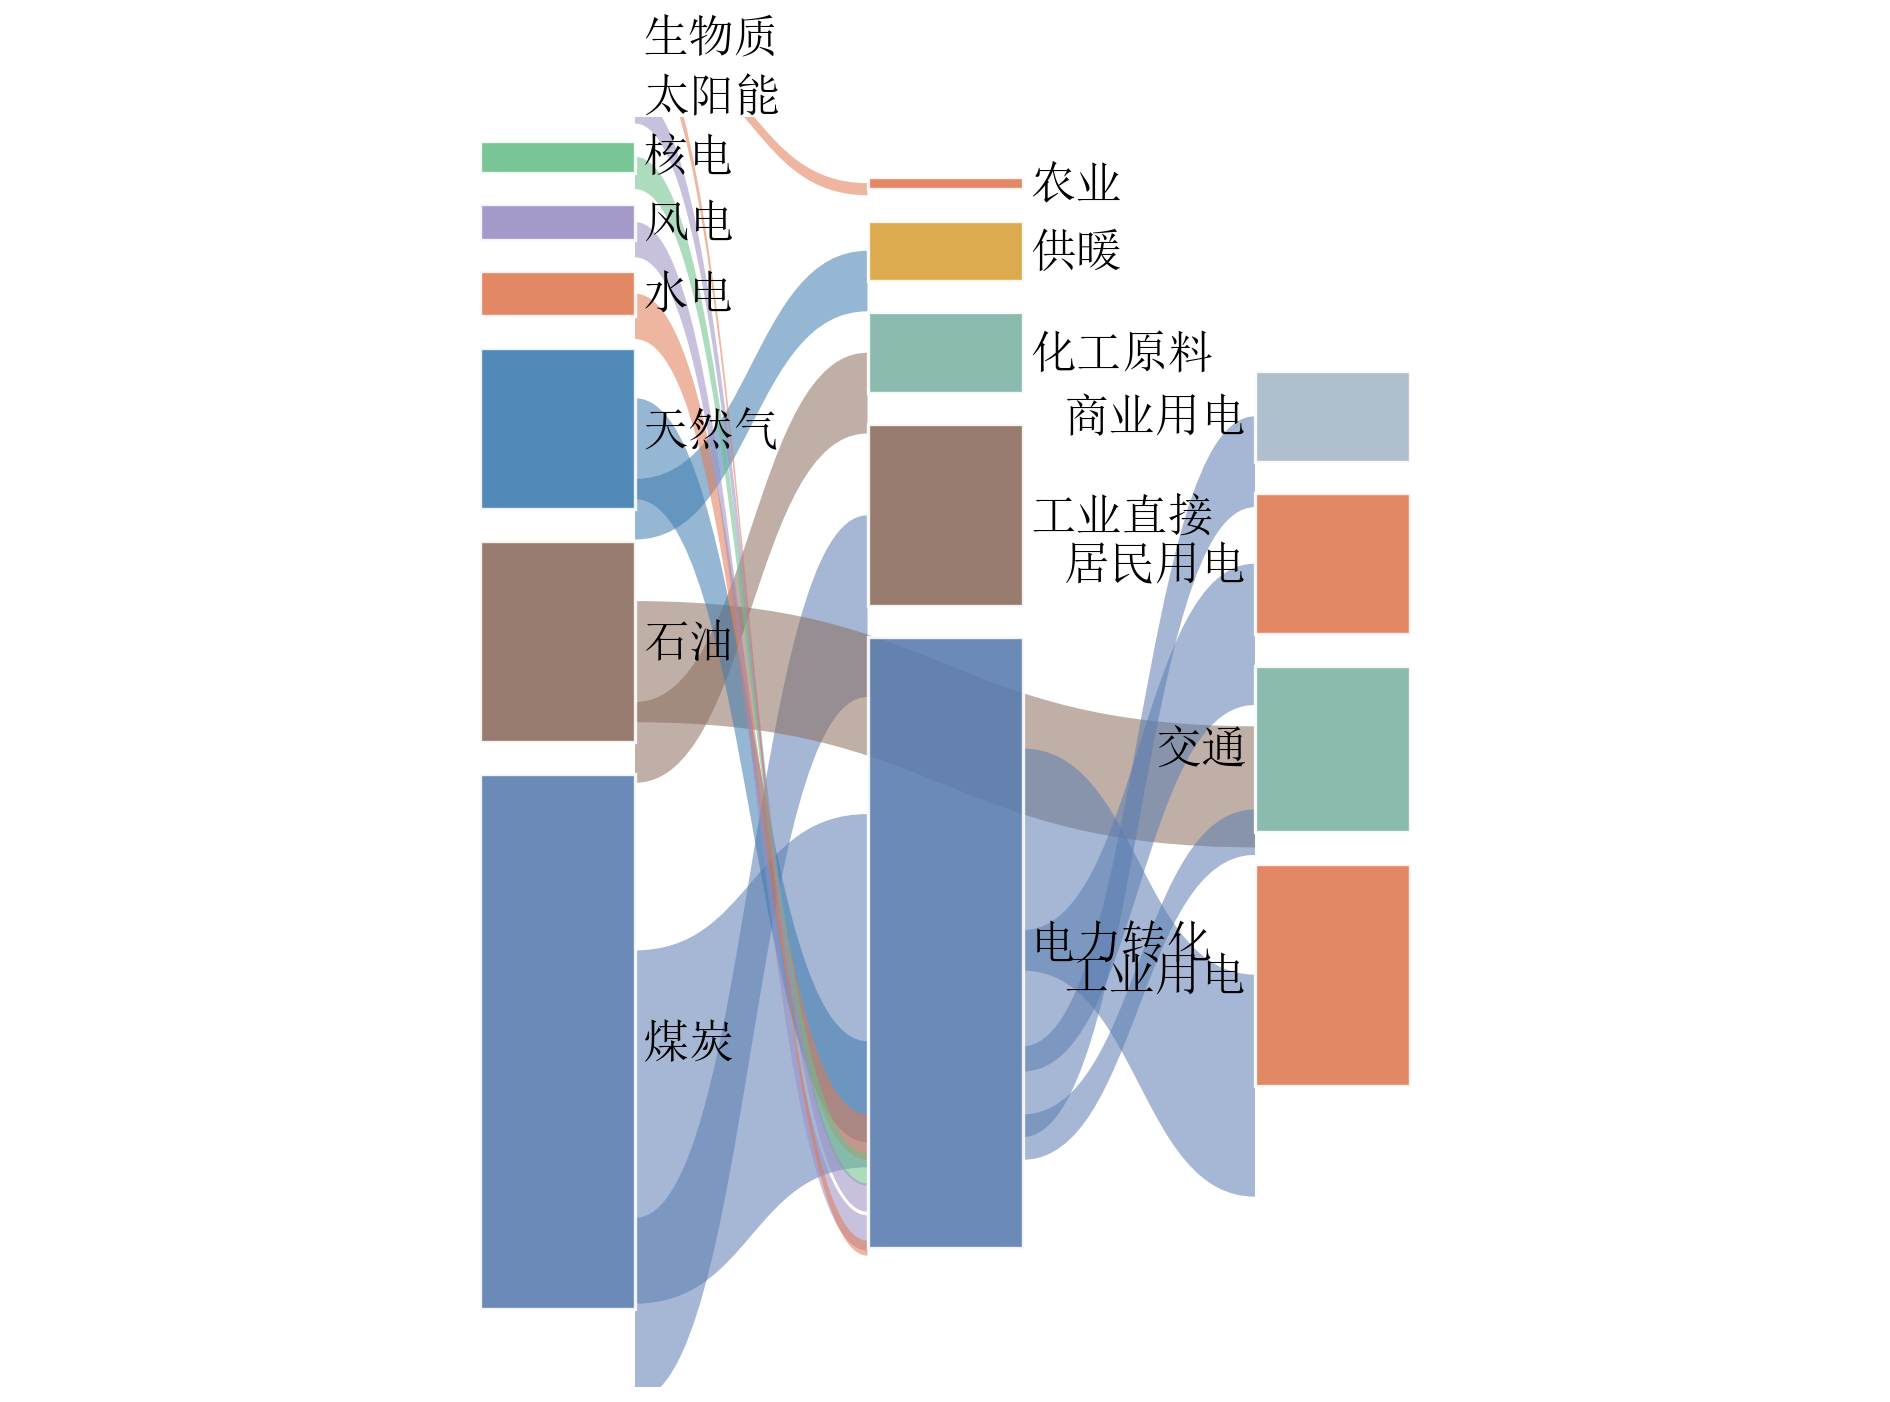
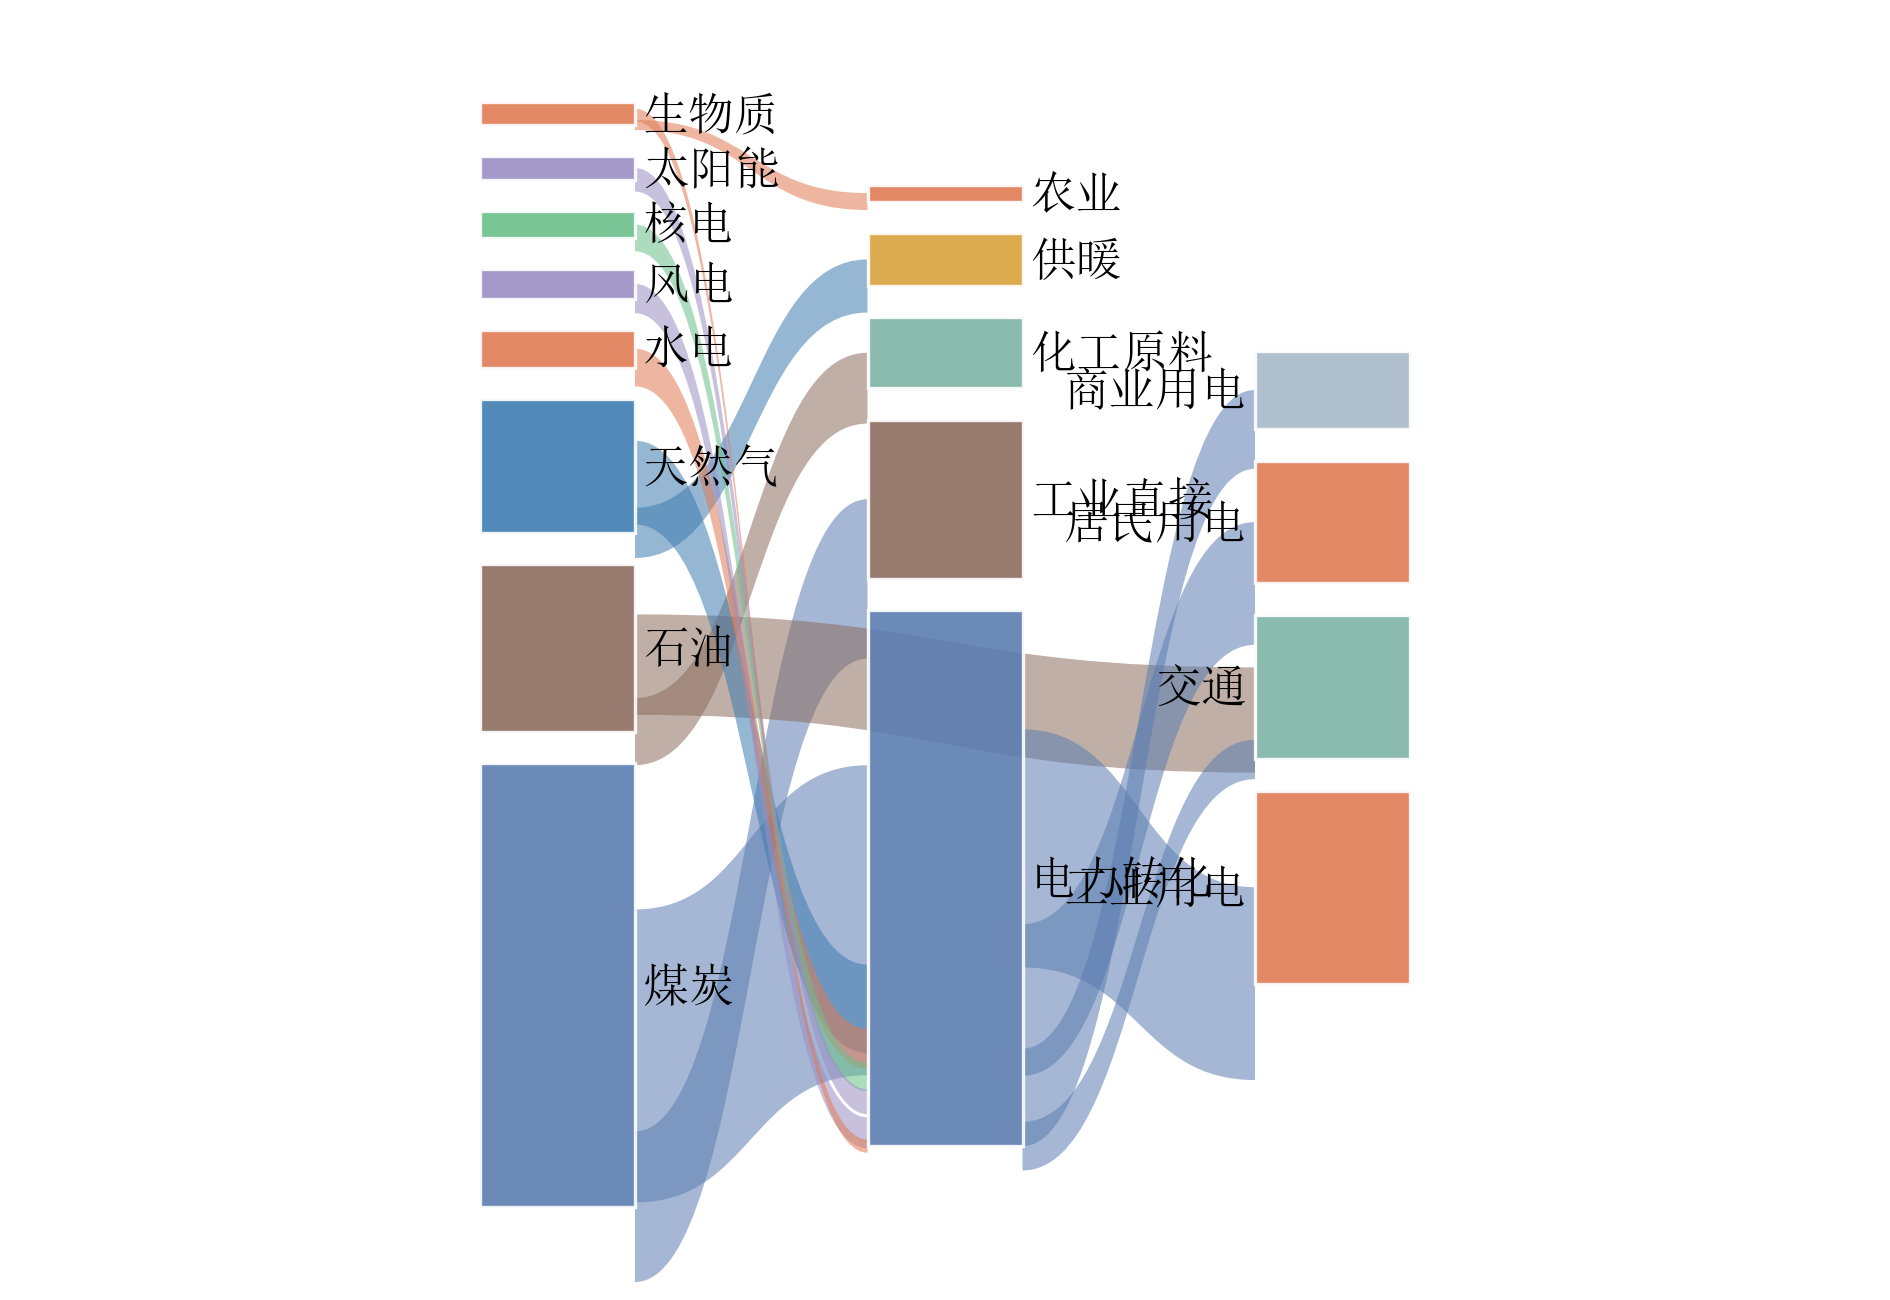
fix: 桑基图极小节点可见性 + docstring rst 误解析 + showcase 34/35/37/38 模板化
- plot_sankey 新增 min_node_height（默认 0.012），极小节点不再被间隙吞掉
- 9 处 docstring **var: 参数行反引号包裹，Sphinx 139 警告 → 0
- showcase 34/35/37/38 改用 figure_panels(template=...) 一键模板
- skill recipes.md 追加 Meta 分析/UpSet/三联画/色盲安全配方

diff --git a/sciplot/_plots/flow.py b/sciplot/_plots/flow.py
@@ -29,6 +29,7 @@ def plot_sankey(
     node_alpha: float = 0.9,
     flow_alpha: float = 0.55,
     min_flow: float = 0.0,
+    min_node_height: float = 0.012,
     venue: Optional[str] = None,
     palette: Optional[str] = None,
     lang: Optional[str] = None,
@@ -49,6 +50,8 @@ def plot_sankey(
         node_alpha : 节点不透明度
         flow_alpha : 流量带不透明度
         min_flow   : 小于该值的流被过滤（避免视觉噪音）
+        min_node_height: 节点最小可见高度（归一化，默认 0.012）。
+                       极小流量节点提升到此高度，避免条高被间隙吞掉只剩标签
 
     示例:
         >>> fig, ax = sp.plot_sankey(
@@ -156,14 +159,32 @@ def plot_sankey(
         layer_heights[lv] = h
         max_layer_h = max(max_layer_h, h)
 
+    # 节点高度：极小节点提升到 min_node_height（避免条高不可见）。
+    # 提升后各层高度相应扩张，保证 ∑节点高 + 间隙 ≈ 层高。
+    min_node_h = float(min_node_height)
+    node_h_eff: Dict[Any, float] = {}
+    for n in node_list:
+        raw_h = node_value[n] / total_value
+        node_h_eff[n] = max(raw_h, min_node_h)
+
     x_stride = node_width * 2.5
     node_pos: Dict[Any, Tuple[float, float]] = {}
+    node_h_display: Dict[Any, float] = {}  # 实际绘制高度（含最小提升与收缩）
     for lv, nodes in layers.items():
         x = lv * x_stride
-        y_cursor = (max_layer_h - layer_heights[lv]) / 2
+        # 层内节点高之和（含最小提升）+ 间隙
+        raw_layer_h = sum(node_value[n] for n in nodes) / total_value
+        eff_layer_h = sum(node_h_eff[n] for n in nodes)
+        n_gaps = len(nodes) - 1
+        # 若提升导致溢出，按比例收缩（保持相对大小）；
+        # 但保证提升后的最小节点不被收缩回阈值以下
+        avail = max(raw_layer_h, eff_layer_h + n_gaps * 0.02)
+        scale = raw_layer_h / avail if avail > 0 else 1.0
+        y_cursor = (max_layer_h - raw_layer_h) / 2
         for n in nodes:
-            h = node_value[n] / total_value
+            h = max(node_h_eff[n] * scale, min_node_h * 0.9)
             node_pos[n] = (x, y_cursor)
+            node_h_display[n] = h
             y_cursor += h + 0.02
 
     # 流出/流入偏移游标（用于流量带锚点）
@@ -178,8 +199,8 @@ def plot_sankey(
     for s, t, v in zip(src_arr, tgt_arr, val_arr):
         x_s, y_s = node_pos[s]
         x_t, y_t = node_pos[t]
-        h_s = node_value[s] / total_value
-        h_t = node_value[t] / total_value
+        h_s = node_h_display[s]
+        h_t = node_h_display[t]
         # 节点内流量占比（避免流入≠流出时流带溢出节点条）
         out_total = max(outflow[s], 1e-12)
         in_total = max(inflow[t], 1e-12)
@@ -216,7 +237,7 @@ def plot_sankey(
     # ── 节点矩形 ──
     for n in node_list:
         x, y = node_pos[n]
-        h = node_value[n] / total_value
+        h = node_h_display[n]
         ax.add_patch(Rectangle(
             (x, y), node_width, h,
             facecolor=color_of[n], alpha=node_alpha,
@@ -227,7 +248,7 @@ def plot_sankey(
     fs = max(7, plt.rcParams.get("font.size", 9) - 1)
     for n in node_list:
         x, y = node_pos[n]
-        h = node_value[n] / total_value
+        h = node_h_display[n]
         if level[n] == max_level:
             ax.text(x - 0.005, y + h / 2, label_of[n],
                     ha="right", va="center", fontsize=fs, zorder=4)

diff --git a/showcase/38_composite_time_march.py b/showcase/38_composite_time_march.py
@@ -26,10 +26,9 @@ times = [1.0, 4.0, 12.0, 24.0]
 fields = [plume(t) for t in times]
 vmin, vmax = 0.0, float(np.max(fields[0]))
 
-# ── 布局：2×2 时间快照 ────────────────────────────────────────
+# ── 布局：2×2 时间快照（模板一键生成） ───────────────────────
 sp.setup_style("thesis", "ocean", lang="zh")
-fig, axes = plt.subplots(2, 2, figsize=(5.6, 5.0),
-                         gridspec_kw=dict(hspace=0.32, wspace=0.28))
+fig, axes = sp.figure_panels(template="time_march", venue="thesis")
 axes = np.atleast_2d(axes)
 
 cmap = plt.get_cmap("YlOrRd")
@@ -51,10 +50,5 @@ cbar = fig.colorbar(im, ax=axes, fraction=0.030, pad=0.06, aspect=40)
 cbar.set_label("浓度 (归一化)", fontsize=8)
 cbar.ax.tick_params(labelsize=7)
 
-# ── 面板标签 ─────────────────────────────────────────────────
-for ax, lbl in zip(axes.flat, ["a", "b", "c", "d"]):
-    ax.text(-0.14, 1.08, f"({lbl})", transform=ax.transAxes,
-            fontweight="bold", fontsize=11)
-
-# ── 保存 ──────────────────────────────────────────────────────
+# ── 保存（面板标签已由模板自动添加 8pt） ──────────────────────
 sp.save(fig, "showcase/38_composite_time_march", formats=("png",), dpi=300)

diff --git a/showcase/37_composite_pipeline.py b/showcase/37_composite_pipeline.py
@@ -13,10 +13,10 @@ import sciplot as sp
 
 rng = np.random.default_rng(13)
 
-# ── 布局：1×5 流水线 ──────────────────────────────────────────
+# ── 布局：1×5 流水线（模板一键生成） ─────────────────────────
 sp.setup_style("thesis", "ocean", lang="zh")
-fig, axes = plt.subplots(1, 5, figsize=(9.5, 2.6),
-                         gridspec_kw=dict(wspace=0.62))
+fig, axes = sp.figure_panels(template="pipeline", venue="thesis")
+axes = np.atleast_1d(axes)
 for ax in axes:
     ax.tick_params(direction="in")
 
@@ -66,10 +66,5 @@ for i in range(4):
     )
     fig.add_artist(cp)
 
-# ── 面板标签 ─────────────────────────────────────────────────
-for ax, lbl in zip(axes, ["a", "b", "c", "d", "e"]):
-    ax.text(-0.14, 1.10, f"({lbl})", transform=ax.transAxes,
-            fontweight="bold", fontsize=11)
-
-# ── 保存 ──────────────────────────────────────────────────────
+# ── 保存（面板标签已由模板自动添加 8pt） ──────────────────────
 sp.save(fig, "showcase/37_composite_pipeline", formats=("png",), dpi=300)

diff --git a/tests/unit/test_sankey.py b/tests/unit/test_sankey.py
@@ -117,3 +117,30 @@ def test_sankey_self_loop_no_hang(cleanup_figures):
     assert result.fig is not None
     result2 = sp.plot_sankey(["A"], ["A"], [10.0])
     assert result2.fig is not None
+
+
+def test_sankey_min_node_height(cleanup_figures):
+    """极小流量节点应提升到最小可见高度（不被间隙吞掉）。"""
+    from matplotlib.patches import Rectangle
+
+    src = ["A", "B", "C", "A", "B"]
+    tgt = ["X", "Y", "X", "Y", "X"]
+    val = [100.0, 1.0, 1.0, 60.0, 42.0]
+    result = sp.plot_sankey(src, tgt, val)
+    rects = [p for p in result.ax.patches if isinstance(p, Rectangle)]
+    assert len(rects) == 5
+    hs = sorted(r.get_height() for r in rects)
+    assert hs[0] >= 0.010, f"最小节点条高 {hs[0]:.4f} 不可见"
+
+
+def test_sankey_min_node_height_zero_disables(cleanup_figures):
+    """min_node_height=0 时不做最小高度提升（保持原始比例）。"""
+    from matplotlib.patches import Rectangle
+
+    src = ["A", "B"]
+    tgt = ["X", "Y"]
+    val = [100.0, 1.0]
+    result = sp.plot_sankey(src, tgt, val, min_node_height=0.0)
+    rects = [p for p in result.ax.patches if isinstance(p, Rectangle)]
+    hs = sorted(r.get_height() for r in rects)
+    assert hs[0] < 0.01  # 原始比例下小节点仍很小

diff --git a/sciplot/_core/context.py b/sciplot/_core/context.py
@@ -305,7 +305,7 @@ def ieee_context(
         palette: 配色方案，默认 "pastel"
         lang: 语言设置，"zh" 或 "en"
         theme: 主题模式，"light" 或 "dark"
-        **kwargs: 其他 matplotlib rcParams 参数
+        `**kwargs`: 其他 matplotlib rcParams 参数
 
     返回:
         StyleContext 上下文管理器
@@ -332,7 +332,7 @@ def nature_context(
         palette: 配色方案，默认 "pastel"
         lang: 语言设置，"zh" 或 "en"
         theme: 主题模式，"light" 或 "dark"
-        **kwargs: 其他 matplotlib rcParams 参数
+        `**kwargs`: 其他 matplotlib rcParams 参数
 
     返回:
         StyleContext 上下文管理器
@@ -357,7 +357,7 @@ def thesis_context(
         palette: 配色方案，默认 "pastel"
         lang: 语言设置，"zh" 或 "en"
         theme: 主题模式，"light" 或 "dark"
-        **kwargs: 其他 matplotlib rcParams 参数
+        `**kwargs`: 其他 matplotlib rcParams 参数
 
     返回:
         StyleContext 上下文管理器

diff --git a/showcase/34_composite_condition_matrix.py b/showcase/34_composite_condition_matrix.py
@@ -39,8 +39,8 @@ mean_colors = {
     ("药物 B", "对照"): "#3A628F", ("药物 B", "低剂量"): "#3A628F", ("药物 B", "高剂量"): "#3A628F",
 }
 
-# ── 布局：2×3 条件矩阵 ────────────────────────────────────────
-fig, axes = sp.figure_panels(2, 3, venue="thesis", sharey=True, hspace=0.35, wspace=0.28)
+# ── 布局：2×3 条件矩阵（模板一键生成） ───────────────────────
+fig, axes = sp.figure_panels(template="condition_matrix", venue="thesis")
 
 for ax, (i, j) in zip(axes.flat, [(r, c) for r in range(2) for c in range(3)]):
     drug = drugs[i]

diff --git a/showcase/35_composite_comparative.py b/showcase/35_composite_comparative.py
@@ -21,8 +21,8 @@ COLOR_BASE = "#A9B7C6"
 COLOR_PROP = "#2E6DA4"
 COLOR_PROP_DARK = "#1F4E79"
 
-# ── 布局：1×2 对照双列 ────────────────────────────────────────
-fig, axes = sp.figure_panels(1, 2, venue="thesis", widths=[1, 1], sharey=True, wspace=0.30)
+# ── 布局：1×2 对照双列（模板一键生成） ───────────────────────
+fig, axes = sp.figure_panels(template="comparative", venue="thesis")
 
 # 左：基线准确率（中性灰蓝柱 + 数值标注）
 x = np.arange(len(datasets))

diff --git a/sciplot/_core/config.py b/sciplot/_core/config.py
@@ -203,7 +203,7 @@ class SciPlotConfig:
         设置全局默认值
 
         参数:
-            **kwargs: 配置项键值对
+            `**kwargs`: 配置项键值对
                 - venue: 期刊样式 ("nature", "ieee", "thesis")
                 - palette: 配色方案 ("pastel", "earth", "ocean")
                 - lang: 语言 ("zh", "en")
@@ -428,7 +428,7 @@ def set_defaults(**kwargs: Any) -> None:
     设置全局默认值
 
     参数:
-        **kwargs: 配置项键值对
+        `**kwargs`: 配置项键值对
 
     示例:
         >>> import sciplot as sp

diff --git a/docs/conf.py b/docs/conf.py
@@ -55,6 +55,13 @@ extensions = [
     "numpydoc",
 ]
 
+# 抑制 docstring 格式提示类警告（Definition list / Inline strong 等）。
+# 这些是 rst 渲染的可读性提示而非构建错误——napoleon 仍能正确解析参数；
+# 已从源头修复 **var: 强调误解析。保持输出干净便于 CI 检查真实错误。
+suppress_warnings = [
+    "docutils",
+]
+
 templates_path = ["_templates"]
 exclude_patterns = ["_build", "Thumbs.db", ".DS_Store"]
 

diff --git a/sciplot/_plots/advanced.py b/sciplot/_plots/advanced.py
@@ -124,7 +124,7 @@ def plot_confidence(
                  设为 1.96 可画出 95% 置信区间
         alpha  : 阴影透明度，默认 0.25
         fill_kwargs: 传递给 ax.fill_between() 的额外参数（如 hatch、edgecolor）
-        **kwargs: 传递给 ax.plot() 的额外参数（只影响线条）
+        `**kwargs`: 传递给 ax.plot() 的额外参数（只影响线条）
 
     示例:
         >>> fig, ax = sp.plot_confidence(

diff --git a/CHANGELOG.md b/CHANGELOG.md
@@ -7,6 +7,32 @@
 
 ---
 
+## [1.13.5] - 2026-08-04
+
+### Fixed
+
+- **桑基图极小节点不可见**：新增 `min_node_height` 参数（默认 0.012），
+  极小流量节点提升到最小可见高度（原先条高被 0.02 间隙吞掉只剩标签）；
+  布局/流带/标签统一使用提升后高度，收缩时保证最小节点仍可见
+- **docstring `**var:` 误解析**：9 处 `**kwargs:`/`**rc_params:` 参数行
+  改为反引号包裹，消除 Sphinx "Inline strong start-string without end-string"；
+  conf.py 加 `suppress_warnings=["docutils"]` 抑制 rst 可读性提示，
+  Sphinx 构建从 139 警告 → 0 警告
+
+### Changed
+
+- showcase 34/35/37/38 重构为 `figure_panels(template=...)` 一键模板：
+  34 条件矩阵、35 对照双列、37 流水线、38 时间推进，删除手写标签循环
+  （37 比例从超宽 2.98 修正为 1.32）
+- skill：recipes.md 追加 Meta 分析/UpSet/三联画/色盲安全配方
+
+### Tests
+
+- 新增桑基图 min_node_height 行为测试（提升生效 / 0 禁用）
+- 总数 1525 passed
+
+---
+
 ## [1.13.4] - 2026-08-03
 
 ### Fixed
